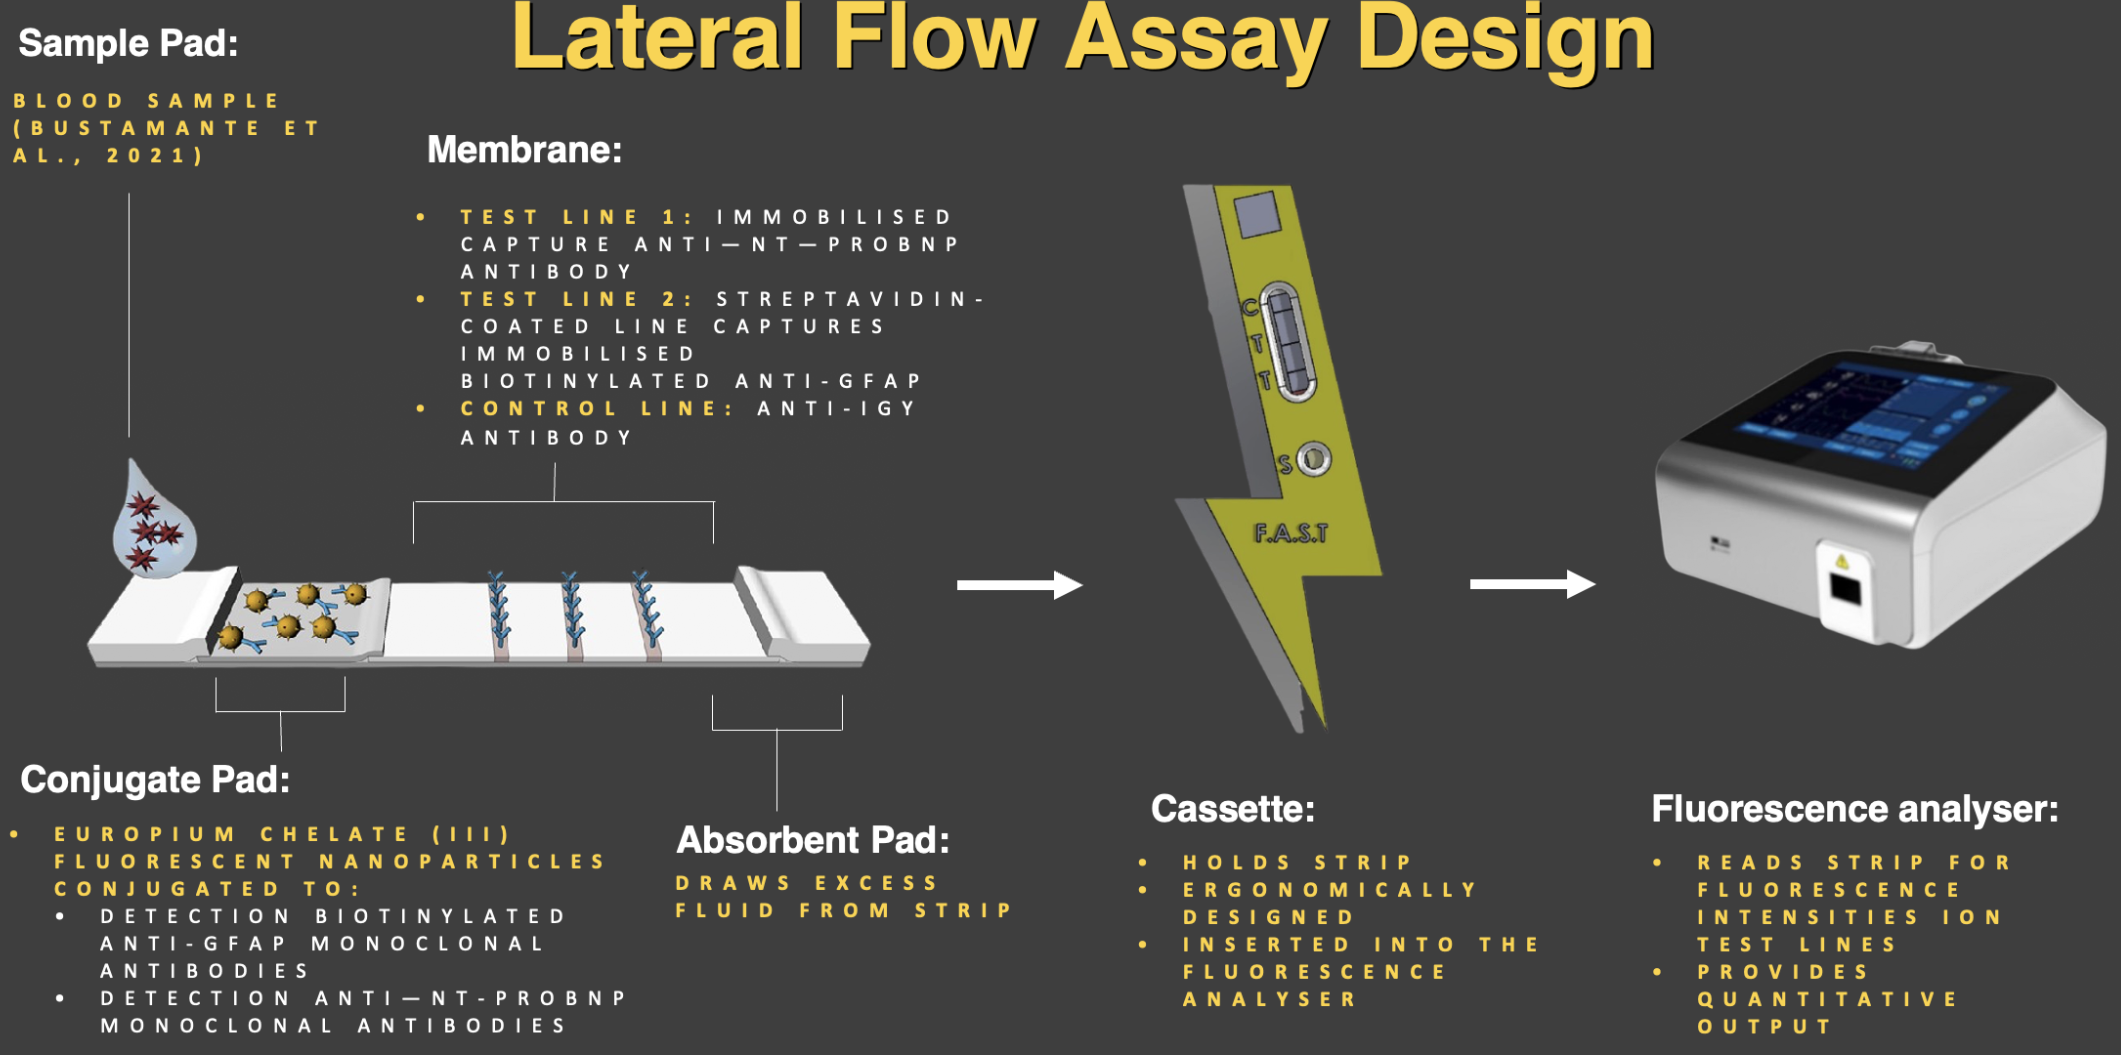
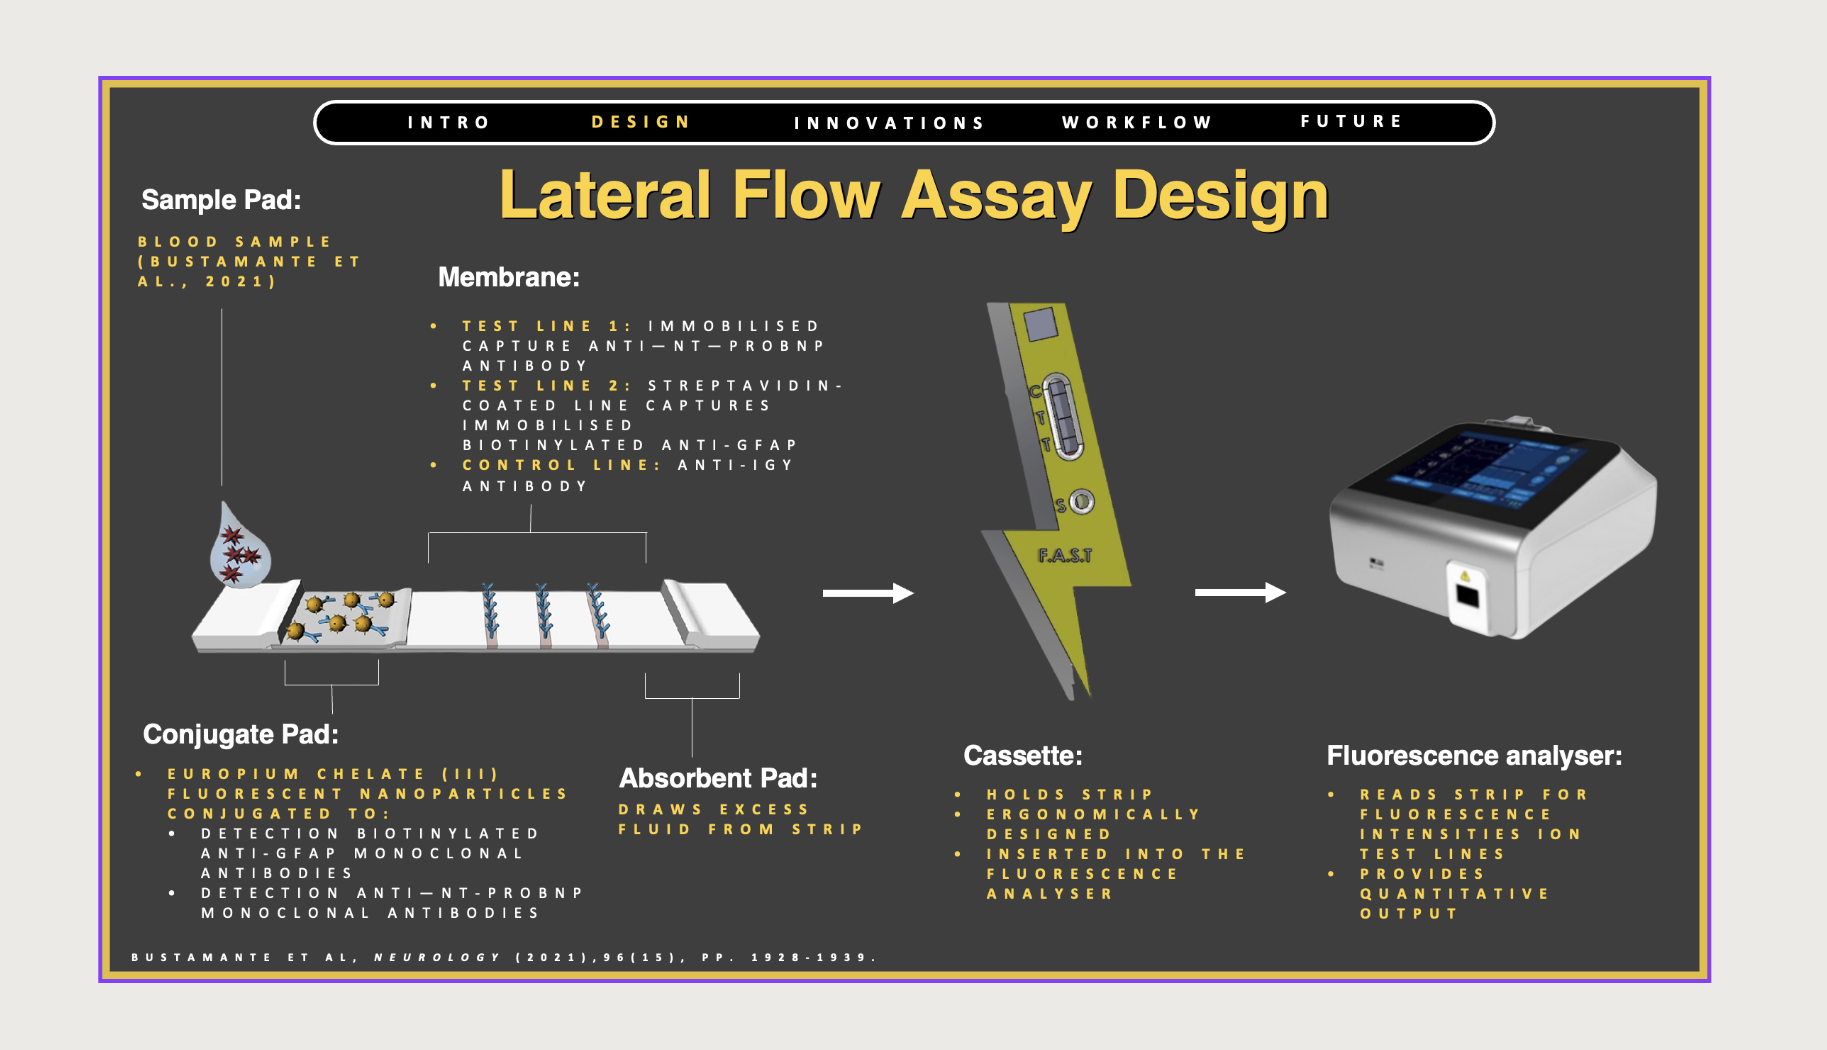
Add files via upload

diff --git a/index.html b/index.html
@@ -33,7 +33,7 @@
                     <a class="btn" href="Hamna_Saleem_Resume.pdf" download="" style="font-size: 14px;">Download resume &darr;</a>
                 </div>
             </div>
-            <img src="../IMG_3246.w1536-h1743-c768_872.jpg" style="grid-area: 1 / 2 / 2 / 3; border-radius: 16px;" width="400">
+            <img src="Images/Hamna.jpg" style="grid-area: 1 / 2 / 2 / 3; border-radius: 16px;" width="400">
             <aside class="heroaside">
                 <div class="stat">
                     <b>6.82 / 7.00</b>
@@ -116,7 +116,7 @@
                 </div>
                 <div class="projects">
                     <article class="project">
-                        <img src="../../Desktop/Screenshot%202026-09-03%20at%2010.37.59%E2%80%AFPM.png" alt="Portable PCR project prototypes and results">
+                        <img src="Images/PCR.png" alt="Portable PCR project prototypes and results">
                         <div class="projectbody">
                             <div class="tag">Point-of-care diagnostics &middot; Capstone RESearch</div>
                             <h3>MaterNix &#8212; Portable PCR for Group B Streptococcus</h3>
@@ -129,7 +129,7 @@
                         </div>
                     </article>
                     <article class="project">
-                        <img src="../../Desktop/Screenshot%202026-09-03%20at%2010.50.22%E2%80%AFPM.png" alt="StrikeDx lateral flow assay design and lab workflow">
+                        <img src="Images/LFA.png" alt="StrikeDx lateral flow assay design and lab workflow">
                         <div class="projectbody">
                             <div class="tag">Point-of-care Diagnostics &middot; Team leadership and Research</div>
                             <h3>StrikeDx &#8212; Multiplex LFA for Stroke Differentiation</h3>
@@ -142,7 +142,7 @@
                         </div>
                     </article>
                     <article class="project">
-                        <img src="../image%20(1).png" alt="Pulse oximetry telemetry prototype and dashboard" class="">
+                        <img src="Images/Spo2.png" alt="Pulse oximetry telemetry prototype and dashboard" class="">
                         <div class="projectbody">
                             <div class="tag">Biomedical instrumentation&nbsp;&middot; embedded systems</div>
                             <h3 class="">Wireless Pulse Oximetry &amp; Temperature Telemetry</h3>
@@ -155,7 +155,7 @@
                         </div>
                     </article>
                     <article class="project">
-                        <img src="../../Desktop/Screenshot%202026-09-03%20at%2010.48.11%E2%80%AFPM.png" alt="3D printed bone scaffold prototypes and simulations">
+                        <img src="Images/Bone.png" alt="3D printed bone scaffold prototypes and simulations">
                         <div class="projectbody">
                             <div class="tag">Biomechanics &middot; FEA &middot; Additive manufacturing</div>
                             <h3>3D-Printed Bone Scaffold for Osteoporotic Defects</h3>
@@ -168,7 +168,7 @@
                         </div>
                     </article>
                     <article class="project">
-                        <img src="../../Desktop/Screenshot%202026-09-03%20at%2010.21.34%E2%80%AFPM.png" alt="Spinal cage simulation and 3D printed prototype">
+                        <img src="Images/Cage.png" alt="Spinal cage simulation and 3D printed prototype">
                         <div class="projectbody">
                             <div class="tag">Biomechanical design &middot; Optimisation</div>
                             <h3>Functionally Graded Spinal Cage</h3>
@@ -181,7 +181,7 @@
                         </div>
                     </article>
                     <article class="project">
-                        <img src="../../Desktop/Screenshot%202026-09-03%20at%2010.20.33%E2%80%AFPM.png" alt="Fluorescence microscopy and nanoparticle results">
+                        <img src="Images/Nanoparticle.png" alt="Fluorescence microscopy and nanoparticle results">
                         <div class="projectbody">
                             <div class="tag">Research &middot; Nanomedicine</div>
                             <h3>Nanoparticle-Based Lung Cancer Cell Imaging</h3>
@@ -207,7 +207,7 @@
                 <div class="experience">
                     <article class="role">
                         <div class="when" style="text-align: center; font-size: 15px;">Current
-                            <img src="../kisspng-new-south-wales-ministry-of-health-public-health-h-5b07b0f2c31f40%20Background%20Removed.8135075315272307067992.png" style="margin-top: 20px; width: 150px;" class="">
+                            <img src="Images/NSW.png" style="margin-top: 20px; width: 150px;" class="">
                         </div>
                         <div>
                             <h3>Sydney Local Health District</h3>
@@ -217,7 +217,7 @@
                     </article>
                     <article class="role">
                         <div class="when" style="font-size: 15px; text-align: center;">Jan &#8211; May 2026
-                            <img src="../EnGeneIC-circlelogo.png" style="width: 130px; margin-top: 20px; margin-left: -5px;">
+                            <img src="Images/Engeneic.png" style="width: 130px; margin-top: 20px; margin-left: -5px;">
                         </div>
                         <div>
                             <h3>EnGeneIC</h3>
@@ -227,7 +227,7 @@
                     </article>
                     <article class="role">
                         <div class="when" style="text-align: center;">Jan &#8211; Jul 2024
-                            <img src="../kisspng-new-south-wales-ministry-of-health-public-health-h-5b07b0f2c31f40%20Background%20Removed.8135075315272307067992.png" style="width: 150px; margin-top: 20px;">
+                            <img src="Images/NSW.png" style="width: 150px; margin-top: 20px;">
                         </div>
                         <div>
                             <h3>Sydney Local Health District</h3>
